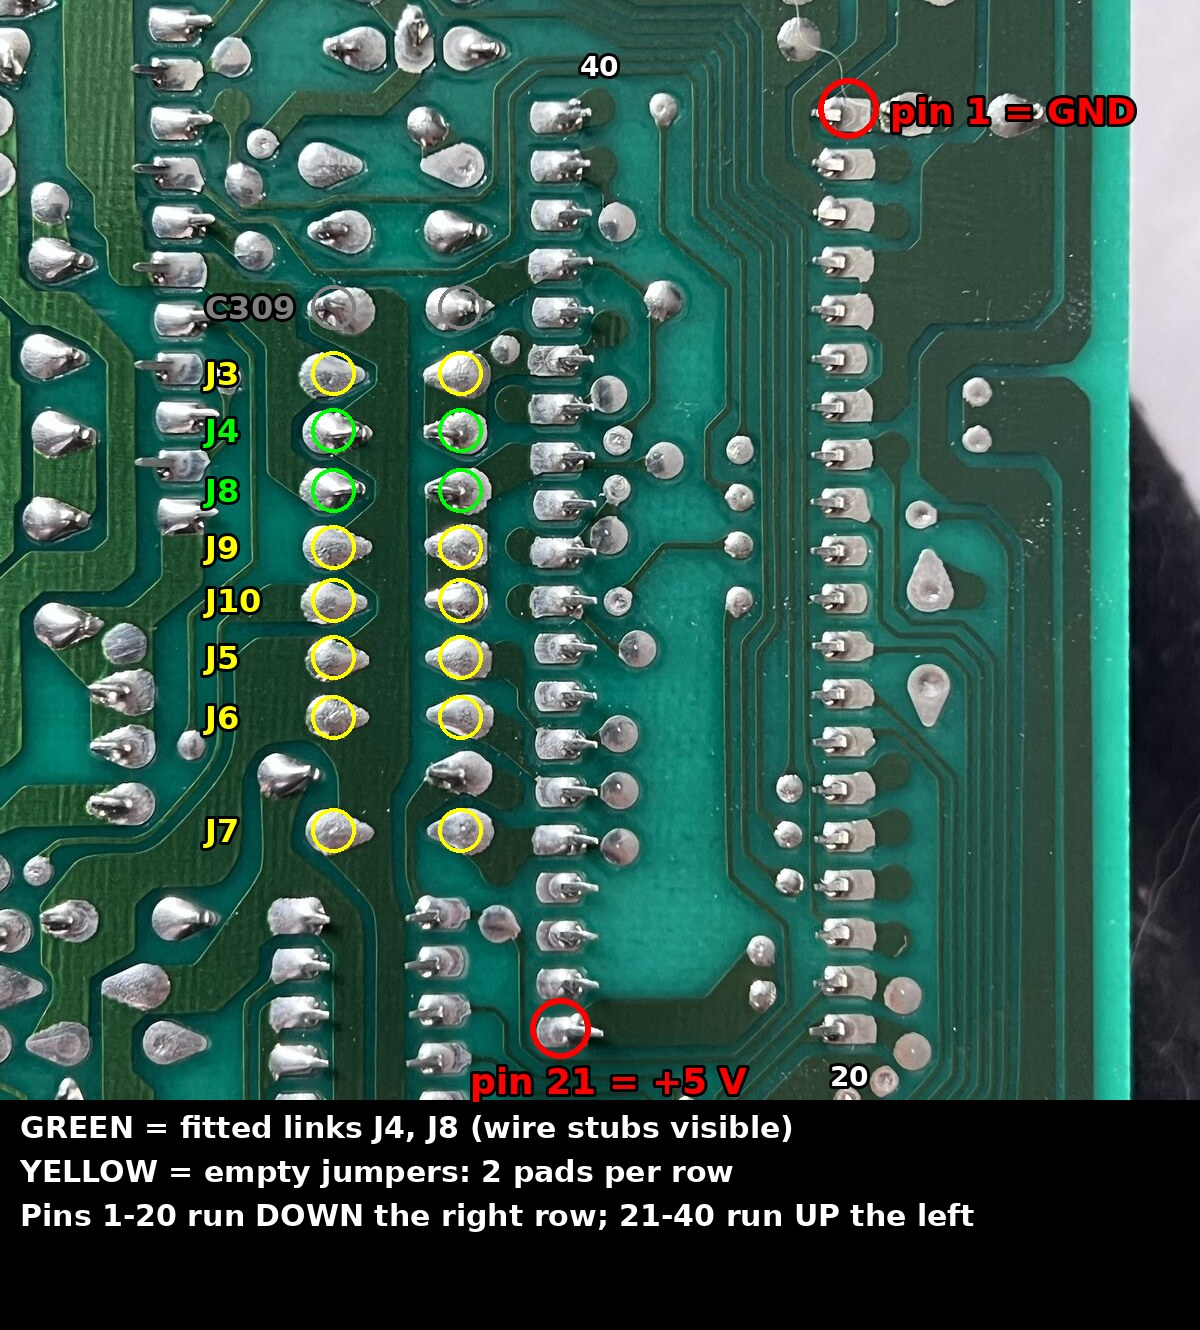
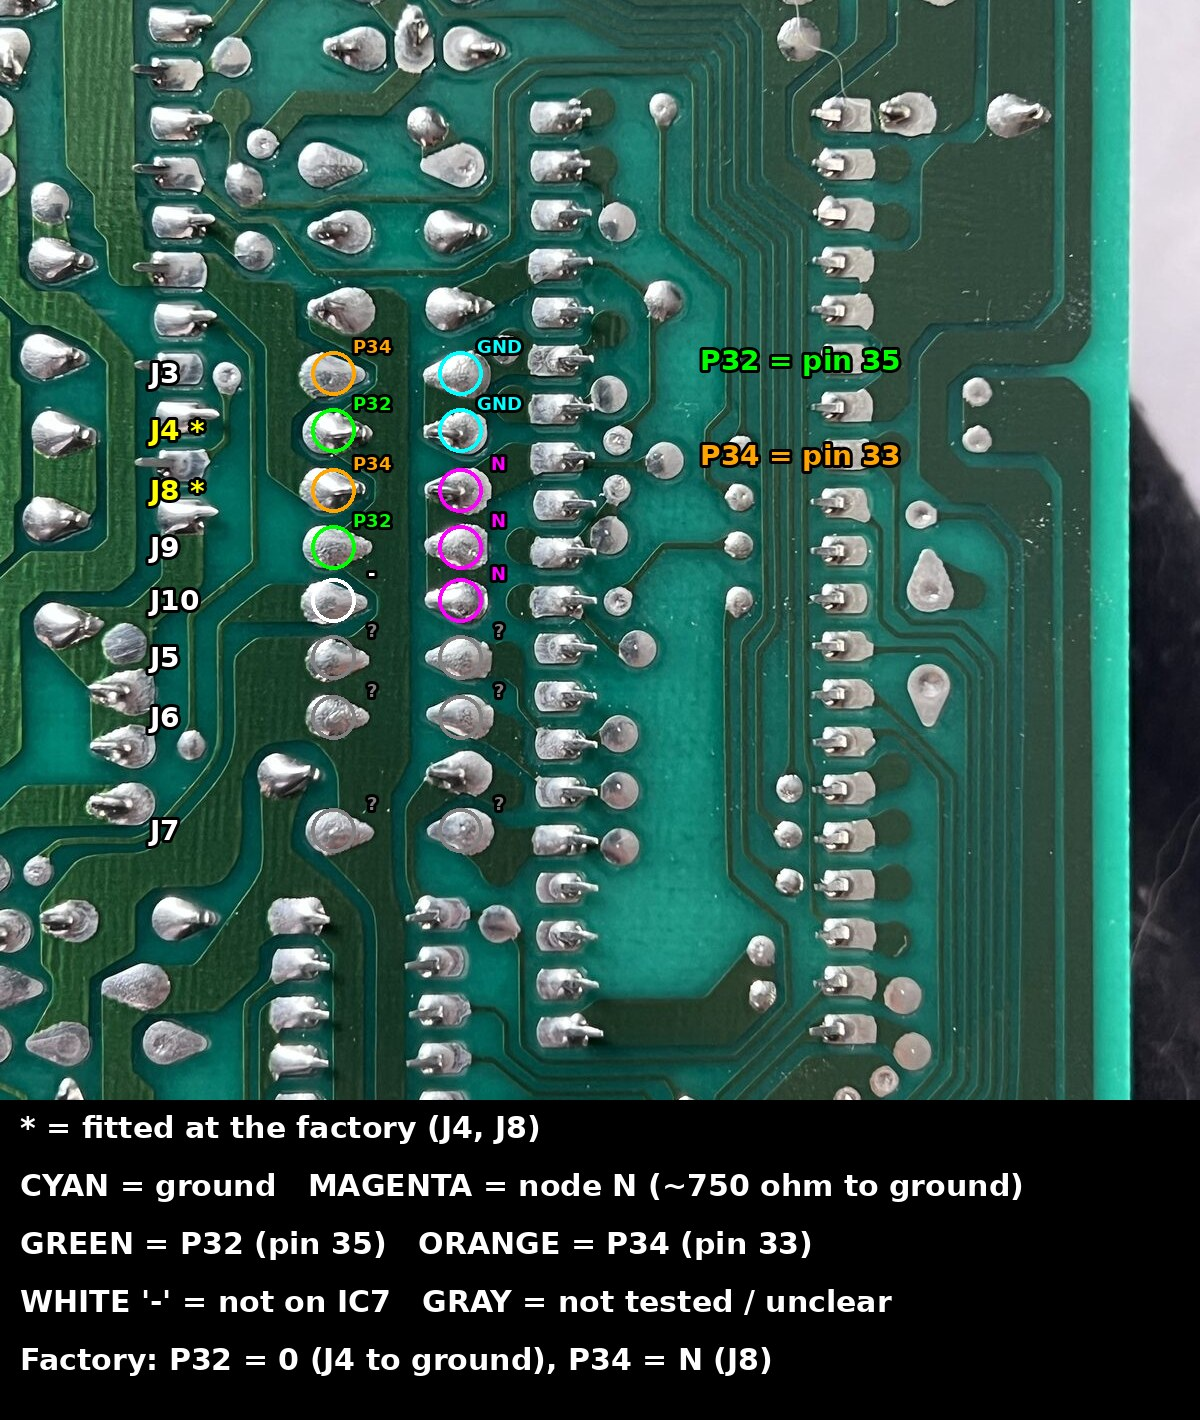
Record continuity Test A: factory option jumper pairs on P32/P34
Owner's bench session, one probe position at a time:
- The jumpers come in pairs per option pin: one to ground, one to a
  shared node N (~750 ohm to ground, not on the main +5 V).
- P32 (IC7 pin 35): J4 to ground (fitted), J9 to N.
- P34 (pin 33): J8 to N (fitted), J3 to ground.
- J10 goes off IC7. J5 is ambiguous. J6, J7, J1 and J2 are untested.

The factory setting is P32 = 0 and P34 = N. These Port 3 option bits are
the prime candidates for Ross's secret-map "logic level". Adds STATUS
Q10 (what is node N: a powered check needing owner approval), notes on
R-F12/R-I15, and a jumper-role map photo.

Claude-Session: https://claude.ai/code/session_012woojD6NXFMVtqkWD6Vx8o

diff --git a/docs/hardware/aw11_ecu.md b/docs/hardware/aw11_ecu.md
@@ -151,16 +151,22 @@ Pin 1 is next to the notch or dot. From the **component side**, pins 1–20 run 
   This matches the standard HD6301V1 pinout, where XTAL and EXTAL are pins 2 and 3. CONFIRMED.
 - **Fitted links:** J4 and J8 (top-side photo 20, wire stubs visible on the solder side). J3 is empty. This corrects the earlier "two links among J3/J4/J8". The solder-side pad map is [`guide/step2-jumper-pads.jpg`](photos/89661-17140/guide/step2-jumper-pads.jpg). CONFIRMED.
 
-- **Where J4 and J8 go** [BENCH: owner, 2026-10-09]. Results were taken one probe position at a time, and pin numbers come from [`guide/step2c-ic7-pin-numbers.jpg`](photos/89661-17140/guide/step2c-ic7-pin-numbers.jpg). CONFIRMED.
+- **The jumper map** [BENCH: owner, 2026-10-09]. Results were taken one probe position at a time, and pin numbers come from [`guide/step2c-ic7-pin-numbers.jpg`](photos/89661-17140/guide/step2c-ic7-pin-numbers.jpg). **The jumpers come in pairs:** each option pin has one position to **ground** and one to a shared node **N**, and the factory fits one of each pair. CONFIRMED.
 
-  | Link | Connects | Meaning |
-  |---|---|---|
-  | **J4** (fitted) | IC7 **pin 35 = P32** ↔ **ground** (direct, beeps) | P32 reads a hard **logic 0** |
-  | **J8** (fitted) | IC7 **pin 33 = P34** ↔ a node with **~750 Ω to ground**. Not to +5 V or ground directly; the same reading both probe directions, so a resistor, not a diode | P34 is pulled to **logic 0** through about 750 Ω |
+  | Jumper | Fitted | Inner pad (right) | Outer pad (left) | Role |
+  |---|---|---|---|---|
+  | **J4** | ✅ | ground | **P32** (IC7 pin 35) | P32 → ground = **0** |
+  | J9 | — | node N | **P32** (pin 35) | alternative: P32 → N |
+  | **J8** | ✅ | node N | **P34** (pin 33) | P34 → N |
+  | J3 | — | ground | **P34** (pin 33) | alternative: P34 → ground = 0 |
+  | J10 | — | node N | not on any IC7 pin | goes elsewhere on the board |
+  | J5 | — | not N, not ground, not on IC7 | P32 or ground (the meter can't tell them apart while J4 is fitted) | unclear |
+  | J6, J7, J1, J2 | — | not tested | not tested | — |
 
-  - J4 and J8 are not connected to each other.
-  - J4 does not reach pins 4, 5, 7, 26, 33 or 40. The earlier beeps on those pins were miscounts or capacitor-charging chirps.
-  - The links sit on **Port 3**. That is only a general-purpose port in **single-chip mode**, so these are option bits the program reads. They are the prime candidates for Ross's secret-map "logic level" (R-F12, R-I15, STATUS Q6). The ROM search for reads of P32/P34 settles it (P4/P6).
+  - **Node N** reads about **750 Ω to ground**, the same in both probe directions, so it is a resistive path, not a diode. N is **not** connected to the main +5 V (pin 21). It may be a logic-high source such as a standby or battery-backed 5 V rail, which would read as a load to ground when unpowered. GUESS; settled by a powered check (STATUS Q10).
+  - **Factory setting:** **P32 = 0**, and **P34 = N** (LIKELY 1).
+  - **Correction:** many of the "0.757" readings on the beep setting were this 750 Ω path, not chip protection diodes. These conclusions still stand: J4 and J8 are separate nets, and pins 4, 5, 7 and 40 are not grounded (earlier beeps there were miscounts or capacitor-charging chirps).
+  - **Meaning:** P32 and P34 sit on **Port 3**, which is only a general-purpose port in **single-chip mode**. So these are **factory option bits** the program reads. They are the prime candidates for Ross's secret-map "logic level" (R-F12, R-I15, STATUS Q6). LIKELY. The ROM search for reads of Port 3 bits 2 and 4 settles which bit selects what (P4/P6).
 - **Mode pins P20–P22 (pins 8–10)** [BENCH], unpowered, 200k range:
 
   | Pin | To ground | To +5 V |
@@ -182,16 +188,16 @@ Pin 1 is next to the notch or dot. From the **component side**, pins 1–20 run 
 
 | Jumper | Fitted? | Pad A → IC7 pin / GND / +5 V | Pad B → IC7 pin / GND / +5 V |
 |---|---|---|---|
-| J1 | | | |
-| J2 | | | |
-| J3 | | | |
-| J4 | | | |
-| J5 | | | |
-| J6 | | | |
-| J7 | | | |
-| J8 | | | |
-| J9 | | | |
-| J10 | | | |
+| J1 | no | not tested | not tested |
+| J2 | no | not tested | not tested |
+| J3 | no | ground | P34 (pin 33) |
+| J4 | **yes** | ground | P32 (pin 35) |
+| J5 | no | not N / GND / IC7 | P32 or GND (ambiguous while J4 fitted) |
+| J6 | no | not tested | not tested |
+| J7 | no | not tested | not tested |
+| J8 | **yes** | node N | P34 (pin 33) |
+| J9 | no | node N | P32 (pin 35) |
+| J10 | no | node N | not on IC7 |
 
 ### Test B: are `STH`, `VISC`, `FPU` and `OX` inputs or outputs?
 For each of the connector pins `STH`, `VISC`, `FPU` and `OX` (plus `STA` as a known-good reference input):

diff --git a/docs/STATUS.md b/docs/STATUS.md
@@ -2,12 +2,11 @@
 
 The Lead agent updates this file at the end of every session. The plan is in [`RE_PLAN.md`](RE_PLAN.md).
 
-**Last updated:** 2026-10-09 — **The P0 gate is signed off.** The independent Verifiers passed the cross-reference generator and the HD6301 core after fixes; the core matches MAME on more than 1.3 million cases. P1 has started:
-- all 16 Ross figures are extracted and mapped;
-- 8 graphs are digitised to CSV;
-- the 17×8 ignition table is transcribed and matches Ross's own chart to within 1 count.
-
-Next: the P1 Mermaid diagrams of Ross's fuel and ignition chains, then the P2 Bluetop analysis with the emulator's peripheral models.
+**Last updated:** 2026-10-09:
+- **Continuity Test A (jumpers) is done.** The links come in pairs, setting two **Port 3 option bits**: **P32 = 0** (J4) and **P34 = node N** (J8). These are the likely secret-map select bits.
+- The case floats. IC7 pin 1 is confirmed. Mode 7 is LIKELY.
+- P0 is signed off. P1's figures and data are done.
+- Next: the P1 Mermaid diagrams, Test B (VISC/FPU/OX/STH), and Q10 (a powered check, needing owner approval).
 
 Earlier: the 1988 repair manual is recorded ([`hardware/repair_manual_aw11_1988.md`](hardware/repair_manual_aw11_1988.md); the PDF is not committed). Its US ECU drives the idle-up VSV from `V-ISC` (cranking + 10 s), so Q2 is partly reopened for the 17140; continuity Test B now also covers `FPU`. Earlier today: the 1984 EWD, the second photo set and the continuity-test guide. P0 next: cross-reference/call-graph generator, then the emulator.
 
@@ -63,10 +62,11 @@ Earlier: the 1988 repair manual is recorded ([`hardware/repair_manual_aw11_1988.
 | Q3 | What converts raw ignition-table values to degrees BTDC, and does VR offset matter? | IGT tracing + Zero timing meter (P2/P8) |
 | Q4 | Can a 17030 or 17070 dump be found, to check Ross's 17030 numbers directly? | Community search (P3) |
 | Q5 | Do NE/G inputs need a VR-style bipolar waveform from the bench simulator? | ECU input-circuit inspection (P8). IC3 (µPC177C comparator) is the likely conditioner |
-| Q6 | ~~Do the factory jumpers set a logic level or the mode pins?~~ **Partly answered 2026-10-09 [BENCH]:** **J4 ties P32 (IC7 pin 35) to ground**, and **J8 pulls P34 (pin 33) low through ~750 Ω**. Both are Port 3 option bits, not mode pins. The mode pins P20–P22 have resistors to ground unpowered; mode 7 is LIKELY (Bluetop `CPUModeTst`). See [`hardware/aw11_ecu.md`](hardware/aw11_ecu.md) | Map the empty jumpers (J3, J5–J7, J9, J10, J1, J2). Then search the 17140 ROM for reads of P32/P34 (P4/P6). A powered reset-level check of P20–P22 needs owner confirmation |
+| Q6 | ~~Do the factory jumpers set a logic level or the mode pins?~~ **Answered 2026-10-09 [BENCH] for P32/P34:**<br>• **The jumpers come in pairs** per option pin: one to ground, one to node N.<br>• **P32 (pin 35):** J4 to ground (fitted), J9 to N.<br>• **P34 (pin 33):** J8 to N (fitted), J3 to ground.<br>• **Factory setting:** P32 = 0, P34 = N (LIKELY 1).<br>• These are Port 3 option bits, the prime candidates for the secret-map select (R-F12, R-I15). They are not the mode pins.<br>See [`hardware/aw11_ecu.md`](hardware/aw11_ecu.md) | Search the 17140 ROM for reads of Port 3 bits 2 and 4 (P4/P6). J6, J7, J1 and J2 are not tested yet |
 | Q7 | What does the 17140 ROM do with the `OX`/`VF` pins on a UK car with no O2 sensor? | ROM analysis (P4) |
 | Q8 | Does the 17140's `OX` pin carry the mixture-screw CO resistor? The 1984 VAF pin is missing from the board (Ross R-M08) | Continuity **Test B**, then the ROM ADC channel map (P4) |
 | Q9 | Is there a **1986–89 UK mk1b wiring diagram** to confirm the 17140 pinout (VISC, OX, W, ACT, FPU ...)? The 1988 repair manual is mk1b-era but **US spec** (air flow meter, O2 sensor), so it defines `V-ISC`, `FPU` and `W` but cannot say what the UK car uses | Owner: a UK/European 1986–89 EWD or repair manual supplement |
+| Q10 | What is jumper **node N**? About 750 Ω to ground, the same both ways, not connected to the main +5 V. Is it a logic-high source, such as a standby 5 V rail? This decides what P34 reads (0 or 1) with the factory J8 fitted | **Powered** bench measurement of N and P20–P22 at reset. Needs the owner's confirmation (CLAUDE.md hardware safety) |
 
 ## Conflicts log
 

diff --git a/docs/ross/claims.md b/docs/ross/claims.md
@@ -28,7 +28,7 @@ Every factual claim in the PDF is listed here so it can be checked against ROM c
 | R-F09 | A hard-driving rpm correction applies only at high load and rpm well above idle. Its sites are 1800/2600/3000/6200/6450/6650/>6650 rpm | p6 | 17030 | B | MR2 ROM | PENDING | |
 | R-F10 | The hard-driving map **does not interpolate** (it is a staircase). It adds about +2 % at 2000 rpm and about −7.5 % above 6650 rpm | p6 | 17030 | A/B | Bluetop, MR2 ROM | PENDING | The lack of interpolation is checkable as table-lookup code (Tier A). The values need the MR2 ROM. |
 | R-F11 | An air-temperature (THA) correction follows, and it is a straight line | p6 | 17030 | B | MR2 ROM | PENDING | Ross doubted his own THA sensor calibration. Cross-check with Zero sensor characterisation. |
-| R-F12 | A **secret** rpm fuel correction map exists. Stock code always jumps over it. A "logic level inside the ECU" enables it, and the same level selects an alternative 3D ignition map | p6 | 17030 | A/B | Bluetop, MR2 ROM | PENDING | Goal 2. See also R-I15. Candidate hardware: the J1–J10 jumpers by IC7 (J3/J4 fitted), see [`aw11_ecu.md`](../hardware/aw11_ecu.md). Jumper correction: **two links among J3/J4/J8**; which label owns which is settled by the continuity test (Test A). |
+| R-F12 | A **secret** rpm fuel correction map exists. Stock code always jumps over it. A "logic level inside the ECU" enables it, and the same level selects an alternative 3D ignition map | p6 | 17030 | A/B | Bluetop, MR2 ROM | PENDING | Goal 2. See also R-I15. Candidate hardware: the J1–J10 jumpers by IC7 (J3/J4 fitted), see [`aw11_ecu.md`](../hardware/aw11_ecu.md). Jumper correction: **two links among J3/J4/J8**; which label owns which is settled by the continuity test (Test A). **BENCH 2026-10-09:** the 17140 has factory jumper pairs on **P32** (J4 to ground, fitted; J9 to node N) and **P34** (J8 to node N, fitted; J3 to ground). These Port 3 option bits are the prime candidates for the 'logic level'. Next: find the ROM's reads of Port 3 bits 2 and 4. |
 | R-F13 | Next a **global correction factor** from RAM is applied. It is computed elsewhere and combines coolant (warm-up), transient throttle and a high-rpm/high-load/high-throttle enrichment | p7 | 17030 | A | Bluetop, MR2 ROM | PENDING | |
 | R-F14 | The high-rpm part of the global correction cuts in at **6300 rpm** and adds a fixed richening offset | p7 | 17030 | B | MR2 ROM | PENDING | |
 | R-F15 | The global correction drops once throttle falls below about two-thirds | p8 | 17030 | B | MR2 ROM | PENDING | |
@@ -63,7 +63,7 @@ Every factual claim in the PDF is listed here so it can be checked against ROM c
 | R-I12 | An **over-temperature** correction map switches in when coolant is hotter than normal | p15 | 17030 | A/B | Bluetop, MR2 ROM | PENDING | |
 | R-I13 | Idle stability: with the throttle closed, an rpm dip triggers a step of extra advance that decays away. Attack, decay and maximum are stored as calibration values | p15 | 17030 | A/B | Bluetop, MR2 ROM | PENDING | Bluetop: `IdleADVcomp`, `IdleRPMs`, `IdleRPMfilt`. Goal 1. |
 | R-I14 | There is no self-learning (no O2 sensor). Only fault codes are remembered in RAM | p15 | UK | A | MR2 ROM | PENDING | NOT-APPLICABLE to the Bluetop, which has `ADC_Oxy`. |
-| R-I15 | Secret mode replaces the whole base map with a second **17×8** 3D ignition map | p15 | 17030 | A/B | MR2 ROM | PENDING | Pairs with R-F12. |
+| R-I15 | Secret mode replaces the whole base map with a second **17×8** 3D ignition map | p15 | 17030 | A/B | MR2 ROM | PENDING | Pairs with R-F12. **BENCH 2026-10-09:** the 17140 has factory jumper pairs on **P32** (J4 to ground, fitted; J9 to node N) and **P34** (J8 to node N, fitted; J3 to ground). These Port 3 option bits are the prime candidates for the 'logic level'. Next: find the ROM's reads of Port 3 bits 2 and 4. |
 | R-I16 | After each spark the ECU checks the IGF echo. After **several** failed sparks it cuts the injectors, even though the UK car has no catalytic converter | p15–p16 | UK | A/B | Bluetop, MR2 ROM, Bench | PENDING | |
 | R-I17 | Toyota/Denso "softened" a dyno-optimal map for fuel quality and tolerances | p14 | — | X | — | PENDING | Opinion. |
 
